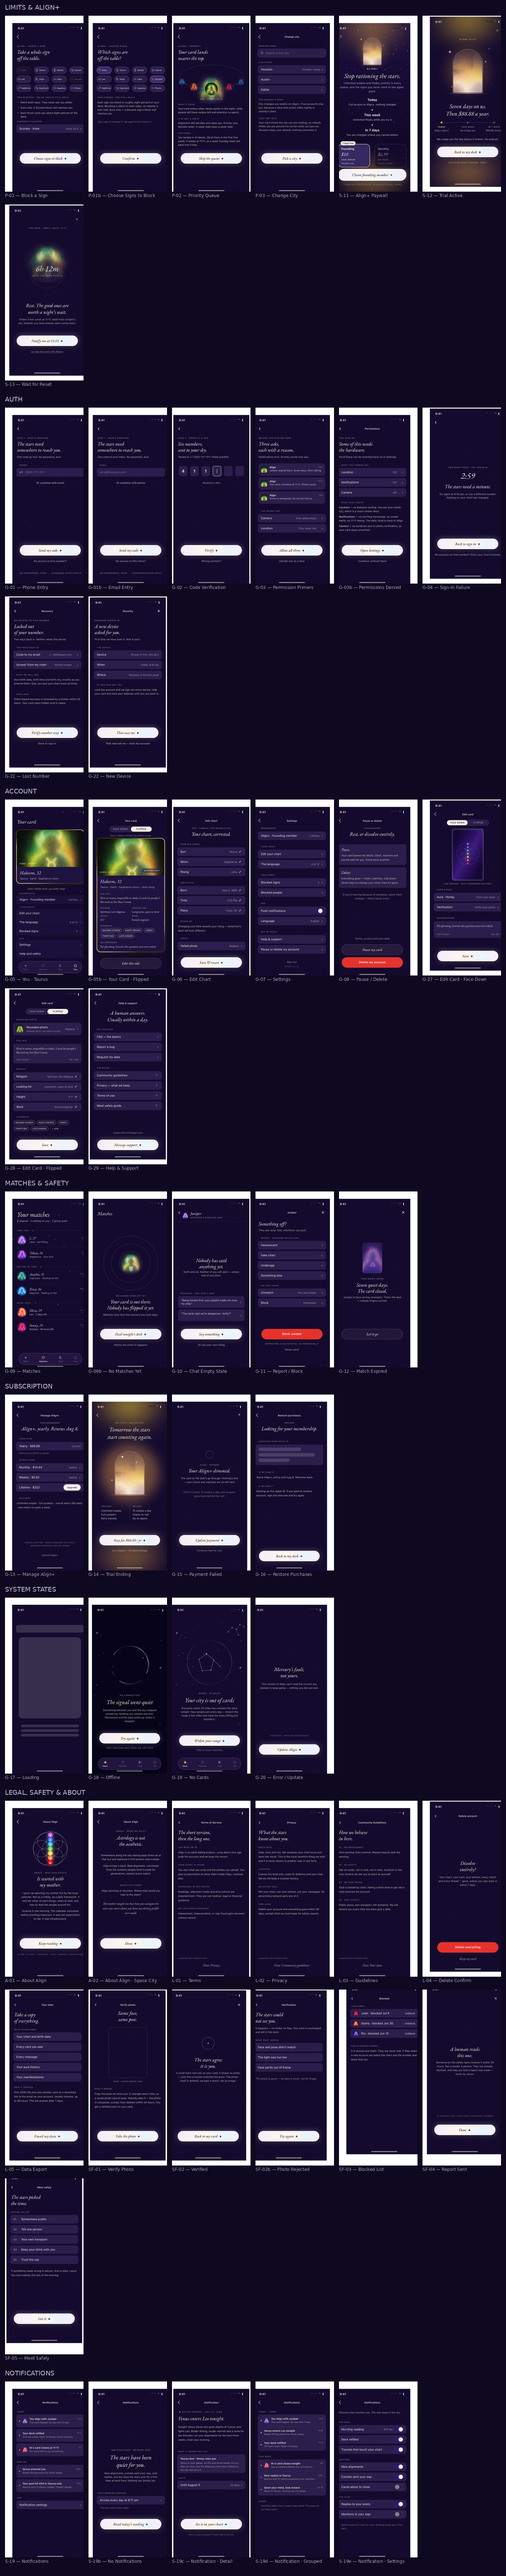
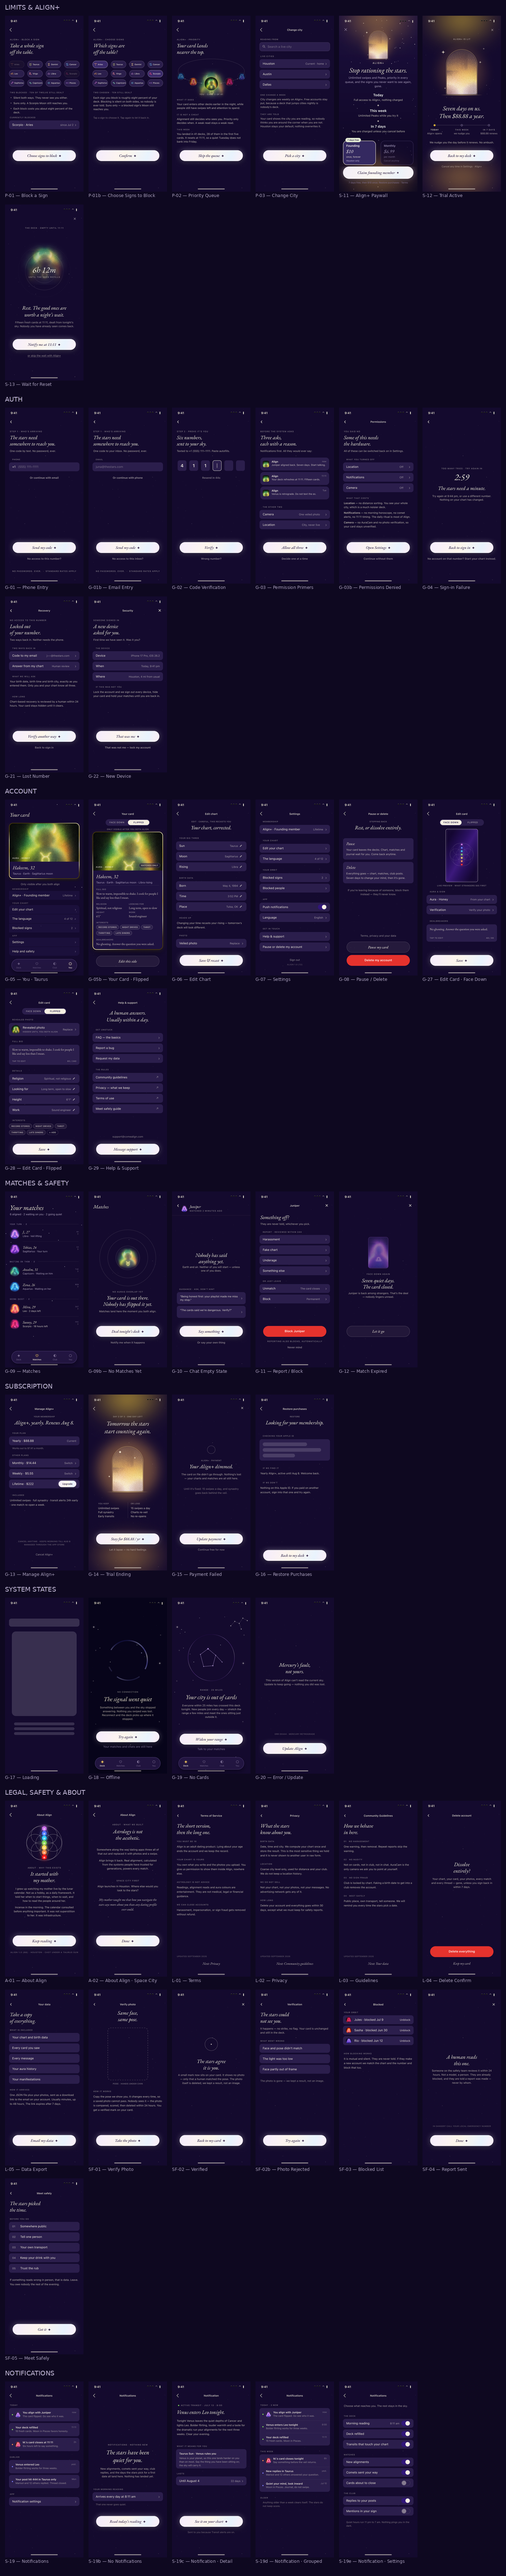
Wave 5: contact sheets re-cropped from detected screen bounds, scores refreshed
Claude-Session: https://claude.ai/code/session_016YjMTARDAwfH7MsqGSPAVh

diff --git a/design/wave5/scores.md b/design/wave5/scores.md
@@ -1,81 +1,81 @@
 | section | screen | accent% | haze% |
 |---|---|---|---|
-| Onboarding | O-01 — Splash | 0.00 | 8.2 |
-| Onboarding | O-02 — Arrival | 1.51 | 1.6 |
-| Onboarding | O-03 — Birth Data | 0.64 | 11.0 |
+| Onboarding | O-01 — Splash | 0.00 | 8.9 |
+| Onboarding | O-02 — Arrival | 1.63 | 1.8 |
+| Onboarding | O-03 — Birth Data | 0.70 | 12.4 |
 | Onboarding | O-03b — Age Blocked | 0.00 | 0.0 |
-| Onboarding | O-03c — No Birth Time | 0.15 | 10.3 |
+| Onboarding | O-03c — No Birth Time | 0.15 | 11.5 |
 | Onboarding | O-03d — Waitlist | 0.00 | 0.0 |
-| Onboarding | O-04 — Birth Sky | 1.52 | 18.0 |
-| Onboarding | O-05 — Sign Reveal · Taurus | 4.54 | 16.6 |
+| Onboarding | O-04 — Birth Sky | 1.63 | 19.3 |
+| Onboarding | O-05 — Sign Reveal · Taurus | 4.92 | 17.7 |
 | Onboarding | O-06 — User Manual | 0.00 | 0.0 |
-| Onboarding | O-07 — Big Three | 2.61 | 23.2 |
-| Onboarding | O-08 — Chart Check | 0.23 | 7.3 |
-| Onboarding | O-09 — Venus | 1.05 | 21.2 |
-| Onboarding | O-10 — Element | 1.19 | 11.2 |
-| Onboarding | O-11 — Flipped Card Rule | 0.63 | 11.2 |
-| Onboarding | O-12 — Dealbreakers | 0.24 | 10.9 |
-| Onboarding | O-13 — Photo Upload | 1.87 | 12.9 |
-| Onboarding | O-13b — The Field | 0.28 | 11.4 |
-| Onboarding | O-15 — Resume Onboarding | 0.13 | 0.8 |
-| Onboarding | O-05 — Sign Reveal · Aries | 6.53 | 19.0 |
-| Onboarding | O-05 — Sign Reveal · Gemini | 3.82 | 17.4 |
-| Onboarding | O-05 — Sign Reveal · Cancer | 9.00 | 9.1 |
-| Onboarding | O-05 — Sign Reveal · Leo | 6.95 | 20.0 |
-| Onboarding | O-05 — Sign Reveal · Virgo | 6.23 | 17.8 |
-| Onboarding | O-05 — Sign Reveal · Libra | 5.47 | 7.7 |
-| Onboarding | O-05 — Sign Reveal · Scorpio | 5.99 | 15.7 |
-| Onboarding | O-05 — Sign Reveal · Sagittarius | 6.36 | 7.6 |
-| Onboarding | O-05 — Sign Reveal · Capricorn | 2.60 | 16.2 |
-| Onboarding | O-05 — Sign Reveal · Aquarius | 5.58 | 11.0 |
-| Onboarding | O-05 — Sign Reveal · Pisces | 6.70 | 7.6 |
-| Core Flow | S-01 — Open App | 0.34 | 0.2 |
-| Core Flow | S-02 — Auth Decision | 0.72 | 11.6 |
-| Core Flow | S-03 — Dealing | 5.47 | 2.6 |
-| Core Flow | S-04 — Your Stack | 5.47 | 2.6 |
-| Core Flow | S-05 — The Deck | 5.45 | 2.6 |
-| Core Flow | S-05b — Deck · next card | 6.27 | 6.8 |
-| Core Flow | S-05c — Deck · Reading | 4.84 | 2.6 |
-| Core Flow | S-05d — Peak · Photo Open | 2.66 | 3.1 |
-| Core Flow | S-05e — Peek · sealing | 5.46 | 2.6 |
-| Core Flow | S-06 — Expand Card | 1.34 | 1.2 |
-| Core Flow | S-07 — Match | 1.46 | 0.5 |
-| Core Flow | S-08 — Veil Lifts | 5.01 | 0.3 |
-| Core Flow | S-09 — Chat | 0.11 | 0.0 |
-| Core Flow | S-09b — Chat · Alignment | 0.31 | 0.3 |
-| Core Flow | S-09c — Chat · sent, unread | 0.11 | 0.0 |
+| Onboarding | O-07 — Big Three | 2.82 | 25.3 |
+| Onboarding | O-08 — Chart Check | 0.74 | 7.8 |
+| Onboarding | O-09 — Venus | 1.16 | 25.7 |
+| Onboarding | O-10 — Element | 1.28 | 13.7 |
+| Onboarding | O-11 — Flipped Card Rule | 1.17 | 12.0 |
+| Onboarding | O-12 — Dealbreakers | 0.74 | 11.6 |
+| Onboarding | O-13 — Photo Upload | 2.57 | 13.9 |
+| Onboarding | O-13b — The Field | 1.00 | 11.8 |
+| Onboarding | O-15 — Resume Onboarding | 0.12 | 0.4 |
+| Onboarding | O-05 — Sign Reveal · Aries | 7.57 | 26.7 |
+| Onboarding | O-05 — Sign Reveal · Gemini | 4.43 | 24.1 |
+| Onboarding | O-05 — Sign Reveal · Cancer | 10.17 | 14.0 |
+| Onboarding | O-05 — Sign Reveal · Leo | 7.83 | 27.5 |
+| Onboarding | O-05 — Sign Reveal · Virgo | 5.79 | 26.4 |
+| Onboarding | O-05 — Sign Reveal · Libra | 5.60 | 8.3 |
+| Onboarding | O-05 — Sign Reveal · Scorpio | 6.39 | 26.5 |
+| Onboarding | O-05 — Sign Reveal · Sagittarius | 7.99 | 8.2 |
+| Onboarding | O-05 — Sign Reveal · Capricorn | 2.90 | 29.5 |
+| Onboarding | O-05 — Sign Reveal · Aquarius | 7.29 | 20.3 |
+| Onboarding | O-05 — Sign Reveal · Pisces | 8.42 | 8.2 |
+| Core Flow | S-01 — Open App | 0.35 | 0.2 |
+| Core Flow | S-02 — Auth Decision | 0.80 | 13.1 |
+| Core Flow | S-03 — Dealing | 5.86 | 2.7 |
+| Core Flow | S-04 — Your Stack | 5.85 | 2.7 |
+| Core Flow | S-05 — The Deck | 5.85 | 2.7 |
+| Core Flow | S-05b — Deck · next card | 7.36 | 7.2 |
+| Core Flow | S-05c — Deck · Reading | 5.18 | 2.7 |
+| Core Flow | S-05d — Peak · Photo Open | 2.85 | 3.2 |
+| Core Flow | S-05e — Peek · sealing | 5.85 | 2.7 |
+| Core Flow | S-06 — Expand Card | 1.42 | 1.2 |
+| Core Flow | S-07 — Match | 1.58 | 0.6 |
+| Core Flow | S-08 — Veil Lifts | 5.34 | 0.3 |
+| Core Flow | S-09 — Chat | 0.12 | 0.0 |
+| Core Flow | S-09b — Chat · Alignment | 0.34 | 0.4 |
+| Core Flow | S-09c — Chat · sent, unread | 0.12 | 0.0 |
 | Core Flow | S-09d — Chat · typing | 0.12 | 0.1 |
-| Core Flow | S-09e — Chat · not sent | 0.20 | 0.4 |
-| Core Flow | S-09f — Chat · expiring | 0.36 | 0.6 |
-| Core Flow | S-09g — Chat · closed | 0.31 | 0.0 |
-| Core Flow | S-10 — Deck Spent | 0.03 | 0.9 |
-| Core Flow | S-21 — Alignment · Juniper × You | 9.32 | 0.1 |
-| Core Flow | S-05x — Deck · sky fire (Moon in Leo) | 5.08 | 8.8 |
-| Core Flow | S-05x — Deck · sky earth (Moon in Taurus) | 5.21 | 2.9 |
-| Core Flow | S-05x — Deck · sky air (Moon in Libra) | 5.27 | 2.5 |
-| Core Flow | S-05x — Deck · sky water (Moon in Cancer) | 5.34 | 2.8 |
-| Guidance | G-23 — Your Chart · Taurus | 3.42 | 2.9 |
-| Guidance | G-24 — Taurus · How You Show Up | 1.79 | 2.2 |
-| Guidance | G-25 — Your Element · Earth | 1.90 | 2.9 |
-| Guidance | G-26 — Your Ruler · Venus | 0.58 | 10.5 |
-| Guidance | S-14 — Sky · today | 1.44 | 3.2 |
-| Guidance | S-15 — Cosmic Calendar | 0.96 | 2.9 |
-| Guidance | S-16 — Term Explainer | 0.03 | 0.1 |
-| Guidance | S-20 — Glossary | 0.83 | 1.8 |
-| Club | S-17 — Club · Taurus room | 1.18 | 1.4 |
-| Club | S-17b — Post Detail | 0.65 | 0.8 |
-| Club | S-17c — Empty Club | 0.10 | 0.1 |
-| Club | S-17d — Write a Reply | 0.07 | 0.0 |
+| Core Flow | S-09e — Chat · not sent | 0.20 | 0.1 |
+| Core Flow | S-09f — Chat · expiring | 0.33 | 0.4 |
+| Core Flow | S-09g — Chat · closed | 0.21 | 0.0 |
+| Core Flow | S-10 — Deck Spent | 0.03 | 0.6 |
+| Core Flow | S-21 — Alignment · Juniper × You | 9.92 | 0.1 |
+| Core Flow | S-05x — Deck · sky fire (Moon in Leo) | 6.09 | 19.5 |
+| Core Flow | S-05x — Deck · sky earth (Moon in Taurus) | 5.84 | 12.5 |
+| Core Flow | S-05x — Deck · sky air (Moon in Libra) | 6.56 | 2.6 |
+| Core Flow | S-05x — Deck · sky water (Moon in Cancer) | 6.00 | 12.4 |
+| Guidance | G-23 — Your Chart · Taurus | 3.68 | 3.1 |
+| Guidance | G-24 — Taurus · How You Show Up | 1.92 | 2.4 |
+| Guidance | G-25 — Your Element · Earth | 2.04 | 3.1 |
+| Guidance | G-26 — Your Ruler · Venus | 0.62 | 11.2 |
+| Guidance | S-14 — Sky · today | 1.50 | 3.5 |
+| Guidance | S-15 — Cosmic Calendar | 1.06 | 3.1 |
+| Guidance | S-16 — Term Explainer | 0.04 | 0.1 |
+| Guidance | S-20 — Glossary | 0.87 | 1.9 |
+| Club | S-17 — Club · Taurus room | 1.27 | 1.5 |
+| Club | S-17b — Post Detail | 0.68 | 0.9 |
+| Club | S-17c — Empty Club | 0.11 | 0.2 |
+| Club | S-17d — Write a Reply | 0.07 | 0.1 |
 | Club | S-18 — Write Post | 0.04 | 0.0 |
-| Club | S-18b — Report Post | 4.33 | 0.1 |
+| Club | S-18b — Report Post | 4.61 | 0.1 |
 | Club | S-18c — Post Removed | 0.00 | 0.0 |
 | Limits & Align+ | P-01 — Block a Sign | 0.03 | 0.1 |
-| Limits & Align+ | P-01b — Choose Signs to Block | 0.05 | 0.1 |
-| Limits & Align+ | P-02 — Priority Queue | 0.80 | 1.7 |
+| Limits & Align+ | P-01b — Choose Signs to Block | 0.05 | 0.0 |
+| Limits & Align+ | P-02 — Priority Queue | 0.85 | 1.8 |
 | Limits & Align+ | P-03 — Change City | 0.00 | 0.0 |
-| Limits & Align+ | S-11 — Align+ Paywall | 0.24 | 13.7 |
-| Limits & Align+ | S-12 — Trial Active | 1.04 | 22.6 |
-| Limits & Align+ | S-13 — Wait for Reset | 0.02 | 1.0 |
+| Limits & Align+ | S-11 — Align+ Paywall | 0.25 | 15.5 |
+| Limits & Align+ | S-12 — Trial Active | 1.13 | 24.5 |
+| Limits & Align+ | S-13 — Wait for Reset | 0.02 | 1.1 |
 | Auth | G-01 — Phone Entry | 0.00 | 0.0 |
 | Auth | G-01b — Email Entry | 0.00 | 0.0 |
 | Auth | G-02 — Code Verification | 0.00 | 0.0 |
@@ -84,54 +84,54 @@
 | Auth | G-04 — Sign-in Failure | 0.00 | 0.0 |
 | Auth | G-21 — Lost Number | 0.00 | 0.0 |
 | Auth | G-22 — New Device | 0.00 | 0.0 |
-| Account | G-05 — You · Taurus | 5.84 | 6.4 |
-| Account | G-05b — Your Card · Flipped | 5.77 | 6.4 |
+| Account | G-05 — You · Taurus | 6.27 | 7.1 |
+| Account | G-05b — Your Card · Flipped | 6.09 | 7.1 |
 | Account | G-06 — Edit Chart | 0.00 | 0.0 |
 | Account | G-07 — Settings | 0.01 | 0.0 |
-| Account | G-08 — Pause / Delete | 4.22 | 0.3 |
-| Account | G-27 — Edit Card · Face Down | 0.30 | 0.0 |
-| Account | G-28 — Edit Card · Flipped | 0.12 | 0.2 |
+| Account | G-08 — Pause / Delete | 4.60 | 0.3 |
+| Account | G-27 — Edit Card · Face Down | 0.28 | 0.0 |
+| Account | G-28 — Edit Card · Flipped | 0.13 | 0.2 |
 | Account | G-29 — Help & Support | 0.00 | 0.0 |
-| Matches & Safety | G-09 — Matches | 1.89 | 0.6 |
-| Matches & Safety | G-09b — No Matches Yet | 0.17 | 0.3 |
+| Matches & Safety | G-09 — Matches | 2.03 | 0.6 |
+| Matches & Safety | G-09b — No Matches Yet | 0.18 | 0.3 |
 | Matches & Safety | G-10 — Chat Empty State | 0.10 | 0.0 |
-| Matches & Safety | G-11 — Report / Block | 4.26 | 0.3 |
-| Matches & Safety | G-12 — Match Expired | 1.83 | 0.0 |
+| Matches & Safety | G-11 — Report / Block | 4.63 | 0.2 |
+| Matches & Safety | G-12 — Match Expired | 1.95 | 0.0 |
 | Subscription | G-13 — Manage Align+ | 0.00 | 0.0 |
-| Subscription | G-14 — Trial Ending | 1.19 | 34.0 |
+| Subscription | G-14 — Trial Ending | 1.28 | 36.9 |
 | Subscription | G-15 — Payment Failed | 0.00 | 0.0 |
 | Subscription | G-16 — Restore Purchases | 0.00 | 0.0 |
 | System States | G-17 — Loading | 0.00 | 0.0 |
 | System States | G-18 — Offline | 0.02 | 0.0 |
 | System States | G-19 — No Cards | 0.02 | 0.0 |
 | System States | G-20 — Error / Update | 0.00 | 0.0 |
-| Legal, Safety & About | A-01 — About Align | 0.79 | 0.5 |
+| Legal, Safety & About | A-01 — About Align | 0.82 | 0.5 |
 | Legal, Safety & About | A-02 — About Align · Space City | 0.00 | 0.0 |
 | Legal, Safety & About | L-01 — Terms | 0.00 | 0.0 |
 | Legal, Safety & About | L-02 — Privacy | 0.00 | 0.0 |
 | Legal, Safety & About | L-03 — Guidelines | 0.00 | 0.0 |
-| Legal, Safety & About | L-04 — Delete Confirm | 4.30 | 0.1 |
+| Legal, Safety & About | L-04 — Delete Confirm | 4.61 | 0.3 |
 | Legal, Safety & About | L-05 — Data Export | 0.00 | 0.0 |
 | Legal, Safety & About | SF-01 — Verify Photo | 0.00 | 0.0 |
 | Legal, Safety & About | SF-02 — Verified | 0.00 | 0.0 |
 | Legal, Safety & About | SF-02b — Photo Rejected | 0.00 | 0.0 |
-| Legal, Safety & About | SF-03 — Blocked List | 0.29 | 0.1 |
+| Legal, Safety & About | SF-03 — Blocked List | 0.31 | 0.1 |
 | Legal, Safety & About | SF-04 — Report Sent | 0.00 | 0.0 |
 | Legal, Safety & About | SF-05 — Meet Safely | 0.00 | 0.0 |
-| Notifications | S-19 — Notifications | 0.17 | 0.0 |
+| Notifications | S-19 — Notifications | 0.19 | 0.1 |
 | Notifications | S-19b — No Notifications | 0.00 | 0.0 |
 | Notifications | S-19c — Notification · Detail | 0.01 | 0.0 |
-| Notifications | S-19d — Notification · Grouped | 0.18 | 0.1 |
+| Notifications | S-19d — Notification · Grouped | 0.20 | 0.1 |
 | Notifications | S-19e — Notification · Settings | 0.07 | 0.0 |
 
-- **Onboarding** median accent 1.52%, median haze 11.0% (29 screens)
-- **Core Flow** median accent 2.66%, median haze 1.2% (25 screens)
-- **Guidance** median accent 1.20%, median haze 2.9% (8 screens)
-- **Club** median accent 0.10%, median haze 0.1% (7 screens)
-- **Limits & Align+** median accent 0.05%, median haze 1.0% (7 screens)
+- **Onboarding** median accent 1.63%, median haze 12.4% (29 screens)
+- **Core Flow** median accent 2.85%, median haze 1.2% (25 screens)
+- **Guidance** median accent 1.28%, median haze 3.1% (8 screens)
+- **Club** median accent 0.11%, median haze 0.1% (7 screens)
+- **Limits & Align+** median accent 0.05%, median haze 1.1% (7 screens)
 - **Auth** median accent 0.00%, median haze 0.0% (8 screens)
 - **Account** median accent 0.21%, median haze 0.1% (8 screens)
-- **Matches & Safety** median accent 1.83%, median haze 0.3% (5 screens)
+- **Matches & Safety** median accent 1.95%, median haze 0.2% (5 screens)
 - **Subscription** median accent 0.00%, median haze 0.0% (4 screens)
 - **System States** median accent 0.01%, median haze 0.0% (4 screens)
 - **Legal, Safety & About** median accent 0.00%, median haze 0.0% (13 screens)

diff --git a/design/scores.md b/design/scores.md
@@ -234,14 +234,14 @@ screens turned up on 31 more:
 
 Section medians after the wave (scored on 300px tiles cut from the section renders):
 
-- **Onboarding** median accent 1.52%, median haze 11.0% (29 screens)
-- **Core Flow** median accent 2.66%, median haze 1.2% (25 screens)
-- **Guidance** median accent 1.20%, median haze 2.9% (8 screens)
-- **Club** median accent 0.10%, median haze 0.1% (7 screens)
-- **Limits & Align+** median accent 0.05%, median haze 1.0% (7 screens)
+- **Onboarding** median accent 1.63%, median haze 12.4% (29 screens)
+- **Core Flow** median accent 2.85%, median haze 1.2% (25 screens)
+- **Guidance** median accent 1.28%, median haze 3.1% (8 screens)
+- **Club** median accent 0.11%, median haze 0.1% (7 screens)
+- **Limits & Align+** median accent 0.05%, median haze 1.1% (7 screens)
 - **Auth** median accent 0.00%, median haze 0.0% (8 screens)
 - **Account** median accent 0.21%, median haze 0.1% (8 screens)
-- **Matches & Safety** median accent 1.83%, median haze 0.3% (5 screens)
+- **Matches & Safety** median accent 1.95%, median haze 0.2% (5 screens)
 - **Subscription** median accent 0.00%, median haze 0.0% (4 screens)
 - **System States** median accent 0.01%, median haze 0.0% (4 screens)
 - **Legal, Safety & About** median accent 0.00%, median haze 0.0% (13 screens)
